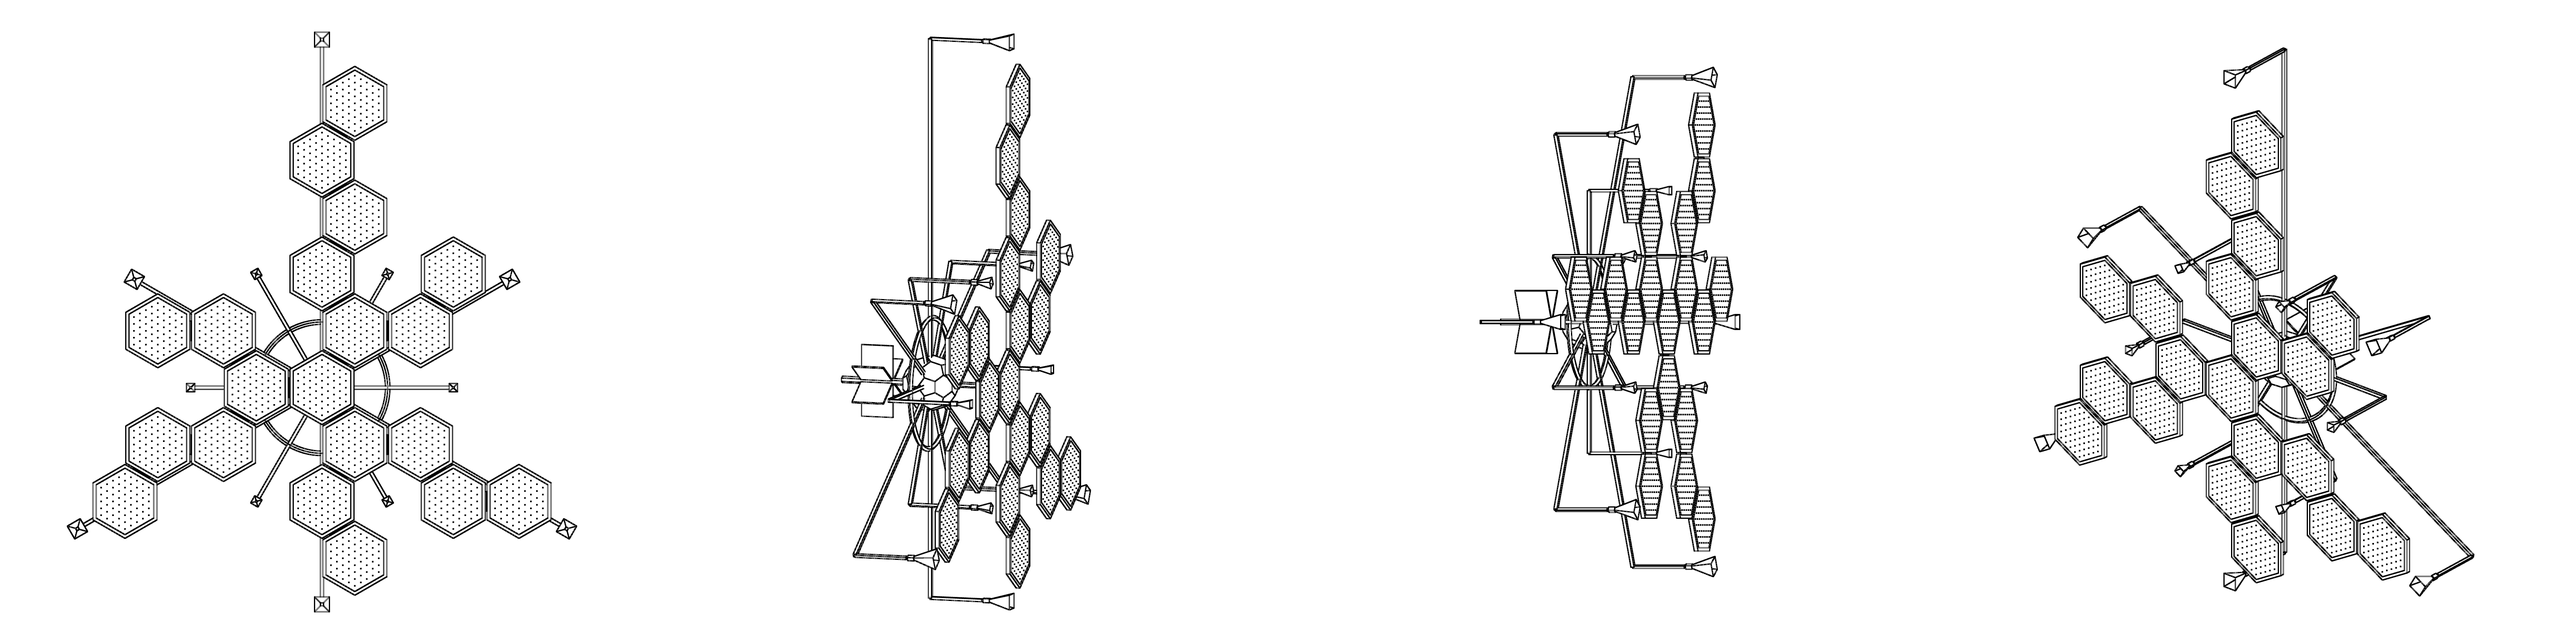
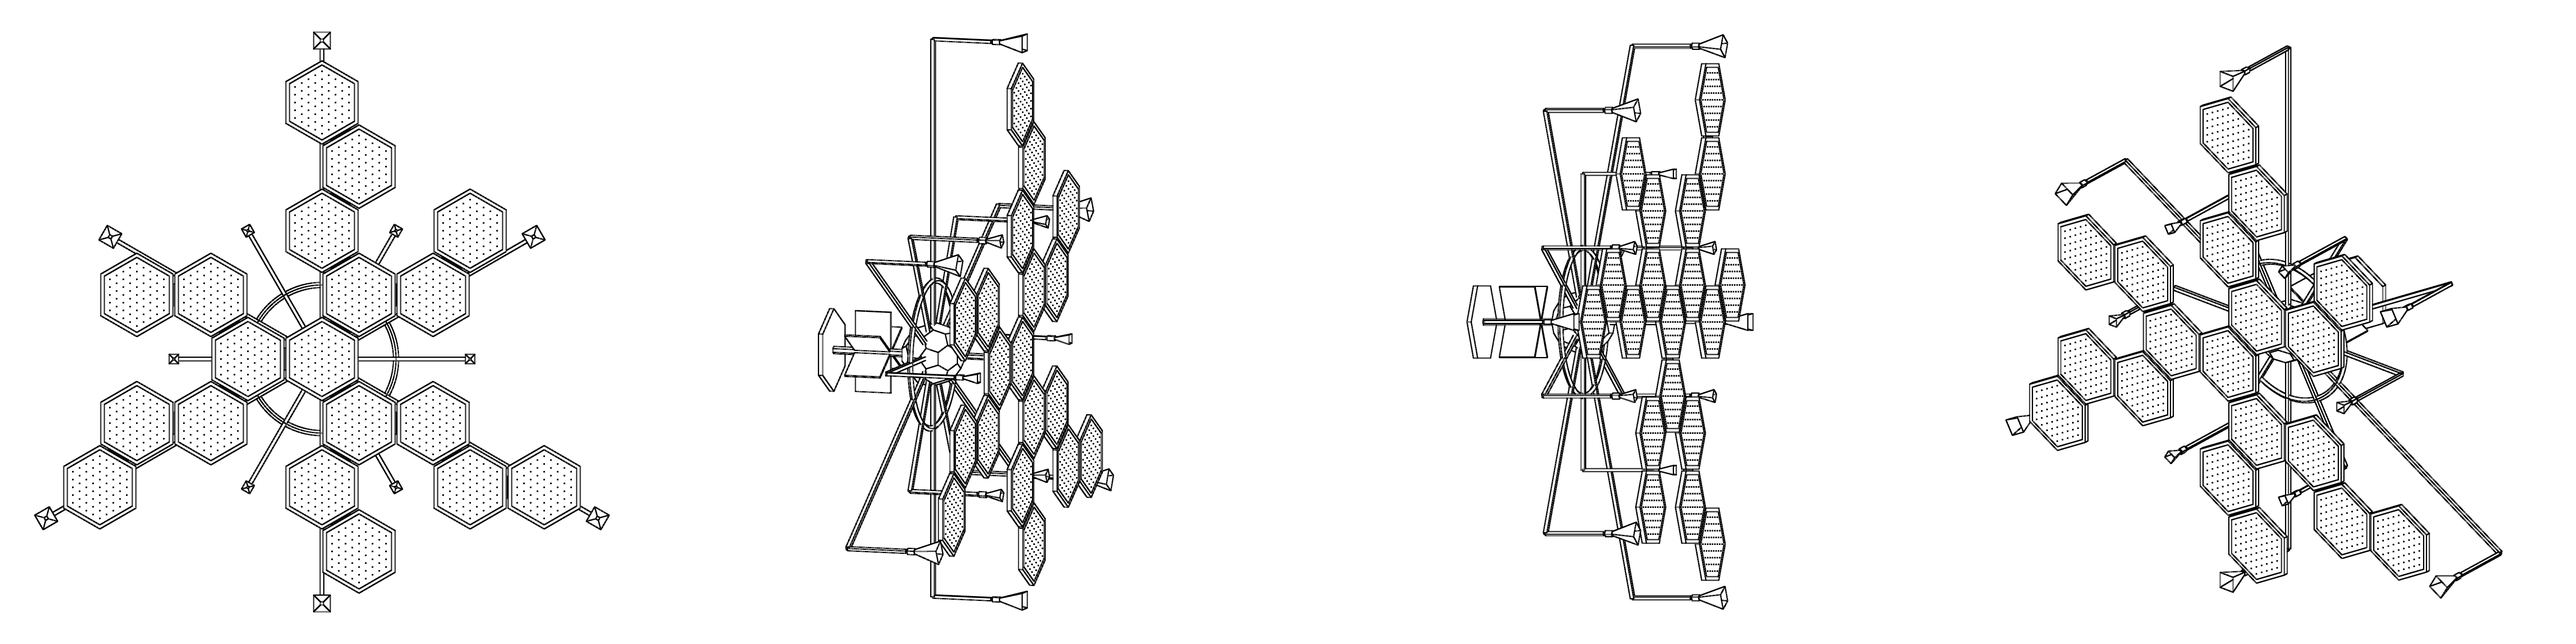
Keep the aft cap on the spine so the petal is three-fold symmetric
Claude-Session: https://claude.ai/code/session_012GBU8z9GaWPBACEnizSCKq

diff --git a/index.html b/index.html
@@ -123,7 +123,7 @@ button:focus-visible{outline:2px solid var(--accent);outline-offset:-2px}
         <dt>Carrier</dt><dd>10 GHz, λ = 3 cm</dd>
         <dt>Active aperture</dt><dd id="d-ap">5.0 m, filled</dd>
         <dt>Tile, flat to flat</dt><dd>1.00 m</dd>
-        <dt>Tiles in array / total</dt><dd id="d-n">19 / 20</dd>
+        <dt>Array tiles</dt><dd>19 + aft cap</dd>
         <dt>Stowed shell</dt><dd>⌀ 2.9 m</dd>
         <dt>Element pitch (λ/2)</dt><dd>15 mm</dd>
         <dt>Elements per tile</dt><dd>≈ 3 800</dd>
@@ -132,7 +132,7 @@ button:focus-visible{outline:2px solid var(--accent);outline-offset:-2px}
       </dl>
     </section>
 
-    <p class="note">Stowed, the 20 tiles are the hexagonal faces of a truncated icosahedron; the 12 pentagonal gaps stay open as listening ports. Same tiles, same edge length, laid flat they make the 5 m aperture from the hull derivation. In hinged mode all 20 tiles unfold as a net: hexagons only share alternate edges, so the net is a three-armed pinwheel with open notches between the arms, and the aft tile rides out on the end of one arm. About the same radiating area as the filled array, so about the same on-axis intensity; the main lobe is roughly 30% narrower but holds about half the power instead of 83%, with the rest in sidelobes. The horns rise on posts until their mouths are level with the array face. Dots on the tiles stand in for the real element lattice, which is far denser.</p>
+    <p class="note">Stowed, the shell is a truncated icosahedron: 19 hexagonal faces are array tiles, the 20th is the aft cap, and the 12 pentagonal gaps stay open as listening ports. Nineteen is one centre tile plus rings of 6 and 12, which is exactly what fills the 5 m aperture from the hull derivation; a 20th tile would have nowhere to go. In hinged mode the 19 array tiles unfold as a net: hexagons only share alternate edges, so the net is a three-armed pinwheel with open notches between the arms. Same radiating area as the filled array, so the same on-axis intensity; the main lobe is roughly 30% narrower but holds about half the power instead of 83%, with the rest in sidelobes. The horns rise on posts until their mouths are level with the array face. Dots on the tiles stand in for the real element lattice, which is far denser.</p>
   </aside>
 </div>
 
@@ -246,7 +246,7 @@ button:focus-visible{outline:2px solid var(--accent);outline-offset:-2px}
   (function(){
     top.depth = 0; const queue = [top];
     while (queue.length){ const f = queue.shift(); order.push(f);
-      f.adj.forEach(e => { if (e.g.depth === undefined) { e.g.depth = f.depth + 1; queue.push(e.g); } }); }
+      f.adj.forEach(e => { if (e.g !== aft && e.g.depth === undefined) { e.g.depth = f.depth + 1; queue.push(e.g); } }); }   // the aft cap is not part of the net
     // where a tile could hang off two neighbours, always take the same-handed one, so the three arms match
     const zc = new V3();
     order.forEach(g => { if (g === top) return;
@@ -330,7 +330,7 @@ button:focus-visible{outline:2px solid var(--accent);outline-offset:-2px}
     const key = f === aft ? 'aft' : 'tiles';
     f.obj = part(key, tileGeo);
     f.obj.add(new T.Line(insetGeo, lineMat(key)));
-    f.obj.add(new T.Points(dotGeo, dotMat));
+    if (f !== aft) f.obj.add(new T.Points(dotGeo, dotMat));   // the aft cap is a blank closure plate, not an array tile
     f.obj.position.copy(f.ps); f.obj.quaternion.copy(f.qs);
     root.add(f.obj);
   });
@@ -414,7 +414,7 @@ button:focus-visible{outline:2px solid var(--accent);outline-offset:-2px}
   function hingeTransforms(u, k){
     order.forEach(f => {
       if (!f.par) { f.G.identity(); return; }
-      hm.makeRotationAxis(f.hD, f.hA*k*ss((u - (f.depth - 1)*0.135)/0.46));
+      hm.makeRotationAxis(f.hD, f.hA*k*ss((u - (f.depth - 1)*0.18)/0.46));
       tmp.copy(f.hP).applyMatrix4(hm);
       hm.setPosition(f.hP.x - tmp.x, f.hP.y - tmp.y, f.hP.z - tmp.z);
       f.G.multiplyMatrices(f.par.G, hm);
@@ -479,9 +479,9 @@ button:focus-visible{outline:2px solid var(--accent);outline-offset:-2px}
   // ---- UI ----
   const PARTS = [
     ['tiles', 'Phased-array tiles ×19', 'Transmit subarrays. Shell faces when stowed, the array when active.'],
-    ['aft',   'Aft cap tile', 'The 20th hexagon. Stays on the spine in carriage mode; peels out with one arm in hinged mode.'],
+    ['aft',   'Aft cap', 'The 20th hexagon. A blank closure plate where the spine meets the shell; it never deploys.'],
     ['struts','Tile carriages', 'Carriage mode. One arm per tile; its foot rides the core shell, then out along a boom.'],
-    ['hinge', 'Edge hinges and centre mast', 'Hinged mode. 19 hinges on shared tile edges; the front tile stays fixed on the mast.'],
+    ['hinge', 'Edge hinges and centre mast', 'Hinged mode. 18 hinges on shared tile edges; the front tile stays fixed on the mast.'],
     ['ring',  'Carriage ring', '⌀ 2.0 m rail. The booms retract to it when stowed.'],
     ['booms', 'Telescoping booms ×12', 'Every tile lands on one. Each carries a horn out past the array edge.'],
     ['vib',   'Vibrometry horns ×6', '10 GHz receive. Read the hull echo timing for heartbeat and breath.'],
@@ -518,7 +518,6 @@ button:focus-visible{outline:2px solid var(--accent);outline-offset:-2px}
     const span = 2*(Math.max.apply(null, order.map(f => Math.hypot(f.flat.x, f.flat.y))) + 0.5), tips = booms.map(bm => 2*bm.tipH);
     document.getElementById('d-ap').textContent = h ? span.toFixed(1) + ' m, thinned' : '5.0 m, filled';
     document.getElementById('d-ring').textContent = h ? '⌀ ' + Math.min.apply(null, tips).toFixed(1) + ' to ' + Math.max.apply(null, tips).toFixed(1) + ' m' : '⌀ 5.6 m';
-    document.getElementById('d-n').textContent = h ? '20 / 20' : '19 / 20';
   }
   document.querySelectorAll('[data-mech]').forEach(b => b.addEventListener('click', () => setMech(!!+b.dataset.mech)));
   document.querySelectorAll('[data-face]').forEach(b => b.addEventListener('click', () => {

diff --git a/specter.html b/specter.html
@@ -115,7 +115,7 @@ button:focus-visible{outline:2px solid var(--accent);outline-offset:-2px}
         <dt>Carrier</dt><dd>10 GHz, λ = 3 cm</dd>
         <dt>Active aperture</dt><dd id="d-ap">5.0 m, filled</dd>
         <dt>Tile, flat to flat</dt><dd>1.00 m</dd>
-        <dt>Tiles in array / total</dt><dd id="d-n">19 / 20</dd>
+        <dt>Array tiles</dt><dd>19 + aft cap</dd>
         <dt>Stowed shell</dt><dd>⌀ 2.9 m</dd>
         <dt>Element pitch (λ/2)</dt><dd>15 mm</dd>
         <dt>Elements per tile</dt><dd>≈ 3 800</dd>
@@ -124,7 +124,7 @@ button:focus-visible{outline:2px solid var(--accent);outline-offset:-2px}
       </dl>
     </section>
 
-    <p class="note">Stowed, the 20 tiles are the hexagonal faces of a truncated icosahedron; the 12 pentagonal gaps stay open as listening ports. Same tiles, same edge length, laid flat they make the 5 m aperture from the hull derivation. In hinged mode all 20 tiles unfold as a net: hexagons only share alternate edges, so the net is a three-armed pinwheel with open notches between the arms, and the aft tile rides out on the end of one arm. About the same radiating area as the filled array, so about the same on-axis intensity; the main lobe is roughly 30% narrower but holds about half the power instead of 83%, with the rest in sidelobes. The horns rise on posts until their mouths are level with the array face. Dots on the tiles stand in for the real element lattice, which is far denser.</p>
+    <p class="note">Stowed, the shell is a truncated icosahedron: 19 hexagonal faces are array tiles, the 20th is the aft cap, and the 12 pentagonal gaps stay open as listening ports. Nineteen is one centre tile plus rings of 6 and 12, which is exactly what fills the 5 m aperture from the hull derivation; a 20th tile would have nowhere to go. In hinged mode the 19 array tiles unfold as a net: hexagons only share alternate edges, so the net is a three-armed pinwheel with open notches between the arms. Same radiating area as the filled array, so the same on-axis intensity; the main lobe is roughly 30% narrower but holds about half the power instead of 83%, with the rest in sidelobes. The horns rise on posts until their mouths are level with the array face. Dots on the tiles stand in for the real element lattice, which is far denser.</p>
   </aside>
 </div>
 
@@ -238,7 +238,7 @@ button:focus-visible{outline:2px solid var(--accent);outline-offset:-2px}
   (function(){
     top.depth = 0; const queue = [top];
     while (queue.length){ const f = queue.shift(); order.push(f);
-      f.adj.forEach(e => { if (e.g.depth === undefined) { e.g.depth = f.depth + 1; queue.push(e.g); } }); }
+      f.adj.forEach(e => { if (e.g !== aft && e.g.depth === undefined) { e.g.depth = f.depth + 1; queue.push(e.g); } }); }   // the aft cap is not part of the net
     // where a tile could hang off two neighbours, always take the same-handed one, so the three arms match
     const zc = new V3();
     order.forEach(g => { if (g === top) return;
@@ -322,7 +322,7 @@ button:focus-visible{outline:2px solid var(--accent);outline-offset:-2px}
     const key = f === aft ? 'aft' : 'tiles';
     f.obj = part(key, tileGeo);
     f.obj.add(new T.Line(insetGeo, lineMat(key)));
-    f.obj.add(new T.Points(dotGeo, dotMat));
+    if (f !== aft) f.obj.add(new T.Points(dotGeo, dotMat));   // the aft cap is a blank closure plate, not an array tile
     f.obj.position.copy(f.ps); f.obj.quaternion.copy(f.qs);
     root.add(f.obj);
   });
@@ -406,7 +406,7 @@ button:focus-visible{outline:2px solid var(--accent);outline-offset:-2px}
   function hingeTransforms(u, k){
     order.forEach(f => {
       if (!f.par) { f.G.identity(); return; }
-      hm.makeRotationAxis(f.hD, f.hA*k*ss((u - (f.depth - 1)*0.135)/0.46));
+      hm.makeRotationAxis(f.hD, f.hA*k*ss((u - (f.depth - 1)*0.18)/0.46));
       tmp.copy(f.hP).applyMatrix4(hm);
       hm.setPosition(f.hP.x - tmp.x, f.hP.y - tmp.y, f.hP.z - tmp.z);
       f.G.multiplyMatrices(f.par.G, hm);
@@ -471,9 +471,9 @@ button:focus-visible{outline:2px solid var(--accent);outline-offset:-2px}
   // ---- UI ----
   const PARTS = [
     ['tiles', 'Phased-array tiles ×19', 'Transmit subarrays. Shell faces when stowed, the array when active.'],
-    ['aft',   'Aft cap tile', 'The 20th hexagon. Stays on the spine in carriage mode; peels out with one arm in hinged mode.'],
+    ['aft',   'Aft cap', 'The 20th hexagon. A blank closure plate where the spine meets the shell; it never deploys.'],
     ['struts','Tile carriages', 'Carriage mode. One arm per tile; its foot rides the core shell, then out along a boom.'],
-    ['hinge', 'Edge hinges and centre mast', 'Hinged mode. 19 hinges on shared tile edges; the front tile stays fixed on the mast.'],
+    ['hinge', 'Edge hinges and centre mast', 'Hinged mode. 18 hinges on shared tile edges; the front tile stays fixed on the mast.'],
     ['ring',  'Carriage ring', '⌀ 2.0 m rail. The booms retract to it when stowed.'],
     ['booms', 'Telescoping booms ×12', 'Every tile lands on one. Each carries a horn out past the array edge.'],
     ['vib',   'Vibrometry horns ×6', '10 GHz receive. Read the hull echo timing for heartbeat and breath.'],
@@ -510,7 +510,6 @@ button:focus-visible{outline:2px solid var(--accent);outline-offset:-2px}
     const span = 2*(Math.max.apply(null, order.map(f => Math.hypot(f.flat.x, f.flat.y))) + 0.5), tips = booms.map(bm => 2*bm.tipH);
     document.getElementById('d-ap').textContent = h ? span.toFixed(1) + ' m, thinned' : '5.0 m, filled';
     document.getElementById('d-ring').textContent = h ? '⌀ ' + Math.min.apply(null, tips).toFixed(1) + ' to ' + Math.max.apply(null, tips).toFixed(1) + ' m' : '⌀ 5.6 m';
-    document.getElementById('d-n').textContent = h ? '20 / 20' : '19 / 20';
   }
   document.querySelectorAll('[data-mech]').forEach(b => b.addEventListener('click', () => setMech(!!+b.dataset.mech)));
   document.querySelectorAll('[data-face]').forEach(b => b.addEventListener('click', () => {

diff --git a/tools/beam_pattern.py b/tools/beam_pattern.py
@@ -5,8 +5,8 @@ import numpy as np
 lam=0.03; k=2*np.pi/lam; s3=3**.5
 # filled: 19-hex cluster
 filled=[(q+r/2, r*s3/2) for q in range(-2,3) for r in range(-2,3) if abs(q+r)<=2]
-# petal layout: flattened tile centres from the hinged model, all 20 tiles (aft cap included)
-petal=[[0,0],[0.5,0.866],[0.5,-0.866],[-1,0],[1.5,0.866],[0,1.7321],[1.5,-0.866],[0,-1.7321],[-1.5,0.866],[-1.5,-0.866],[2,1.7321],[0.5,2.5981],[2,-1.7321],[0.5,-2.5981],[-2.5,0.866],[-2.5,-0.866],[3,-1.7321],[0,3.4641],[-3,-1.7321],[0.5,4.3301]]
+# petal layout: flattened tile centres from the hinged model, the 19 array tiles
+petal=[[0,0],[0.5,0.866],[0.5,-0.866],[-1,0],[1.5,0.866],[0,1.7321],[1.5,-0.866],[0,-1.7321],[-1.5,0.866],[-1.5,-0.866],[2,1.7321],[0.5,2.5981],[2,-1.7321],[0.5,-2.5981],[-2.5,0.866],[-2.5,-0.866],[3,-1.7321],[0,3.4641],[-3,-1.7321]]
 # hex tile sample points (vertex at 30deg => flat-to-flat 1 m along x)
 g=0.04; R=1/s3; pts=[]
 ax=np.arange(-0.6,0.6,g)+g/2
